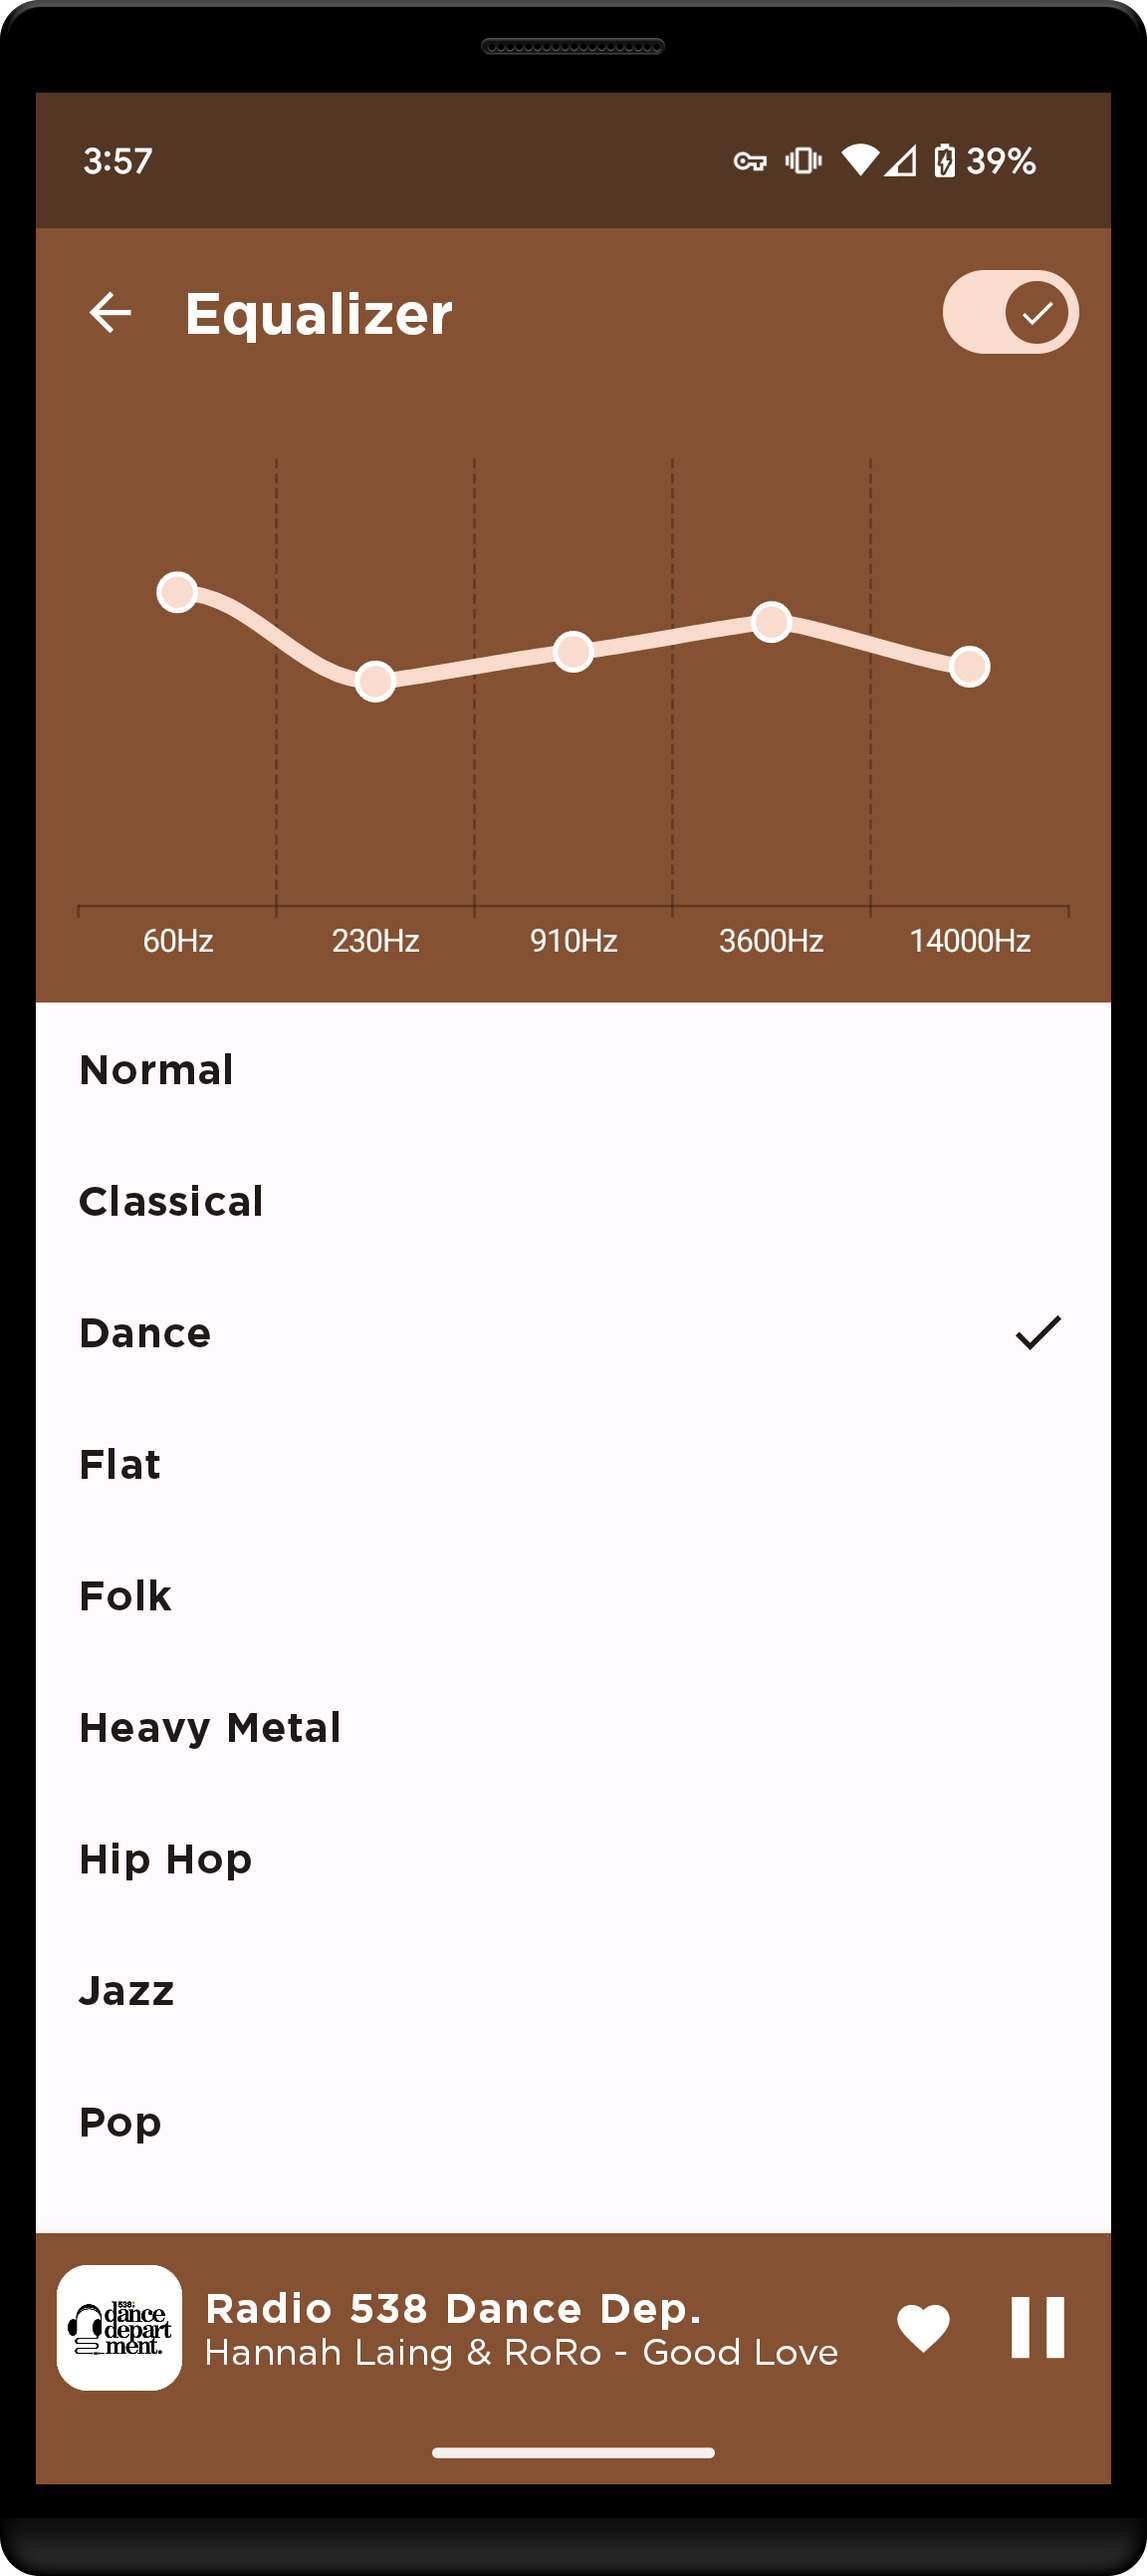
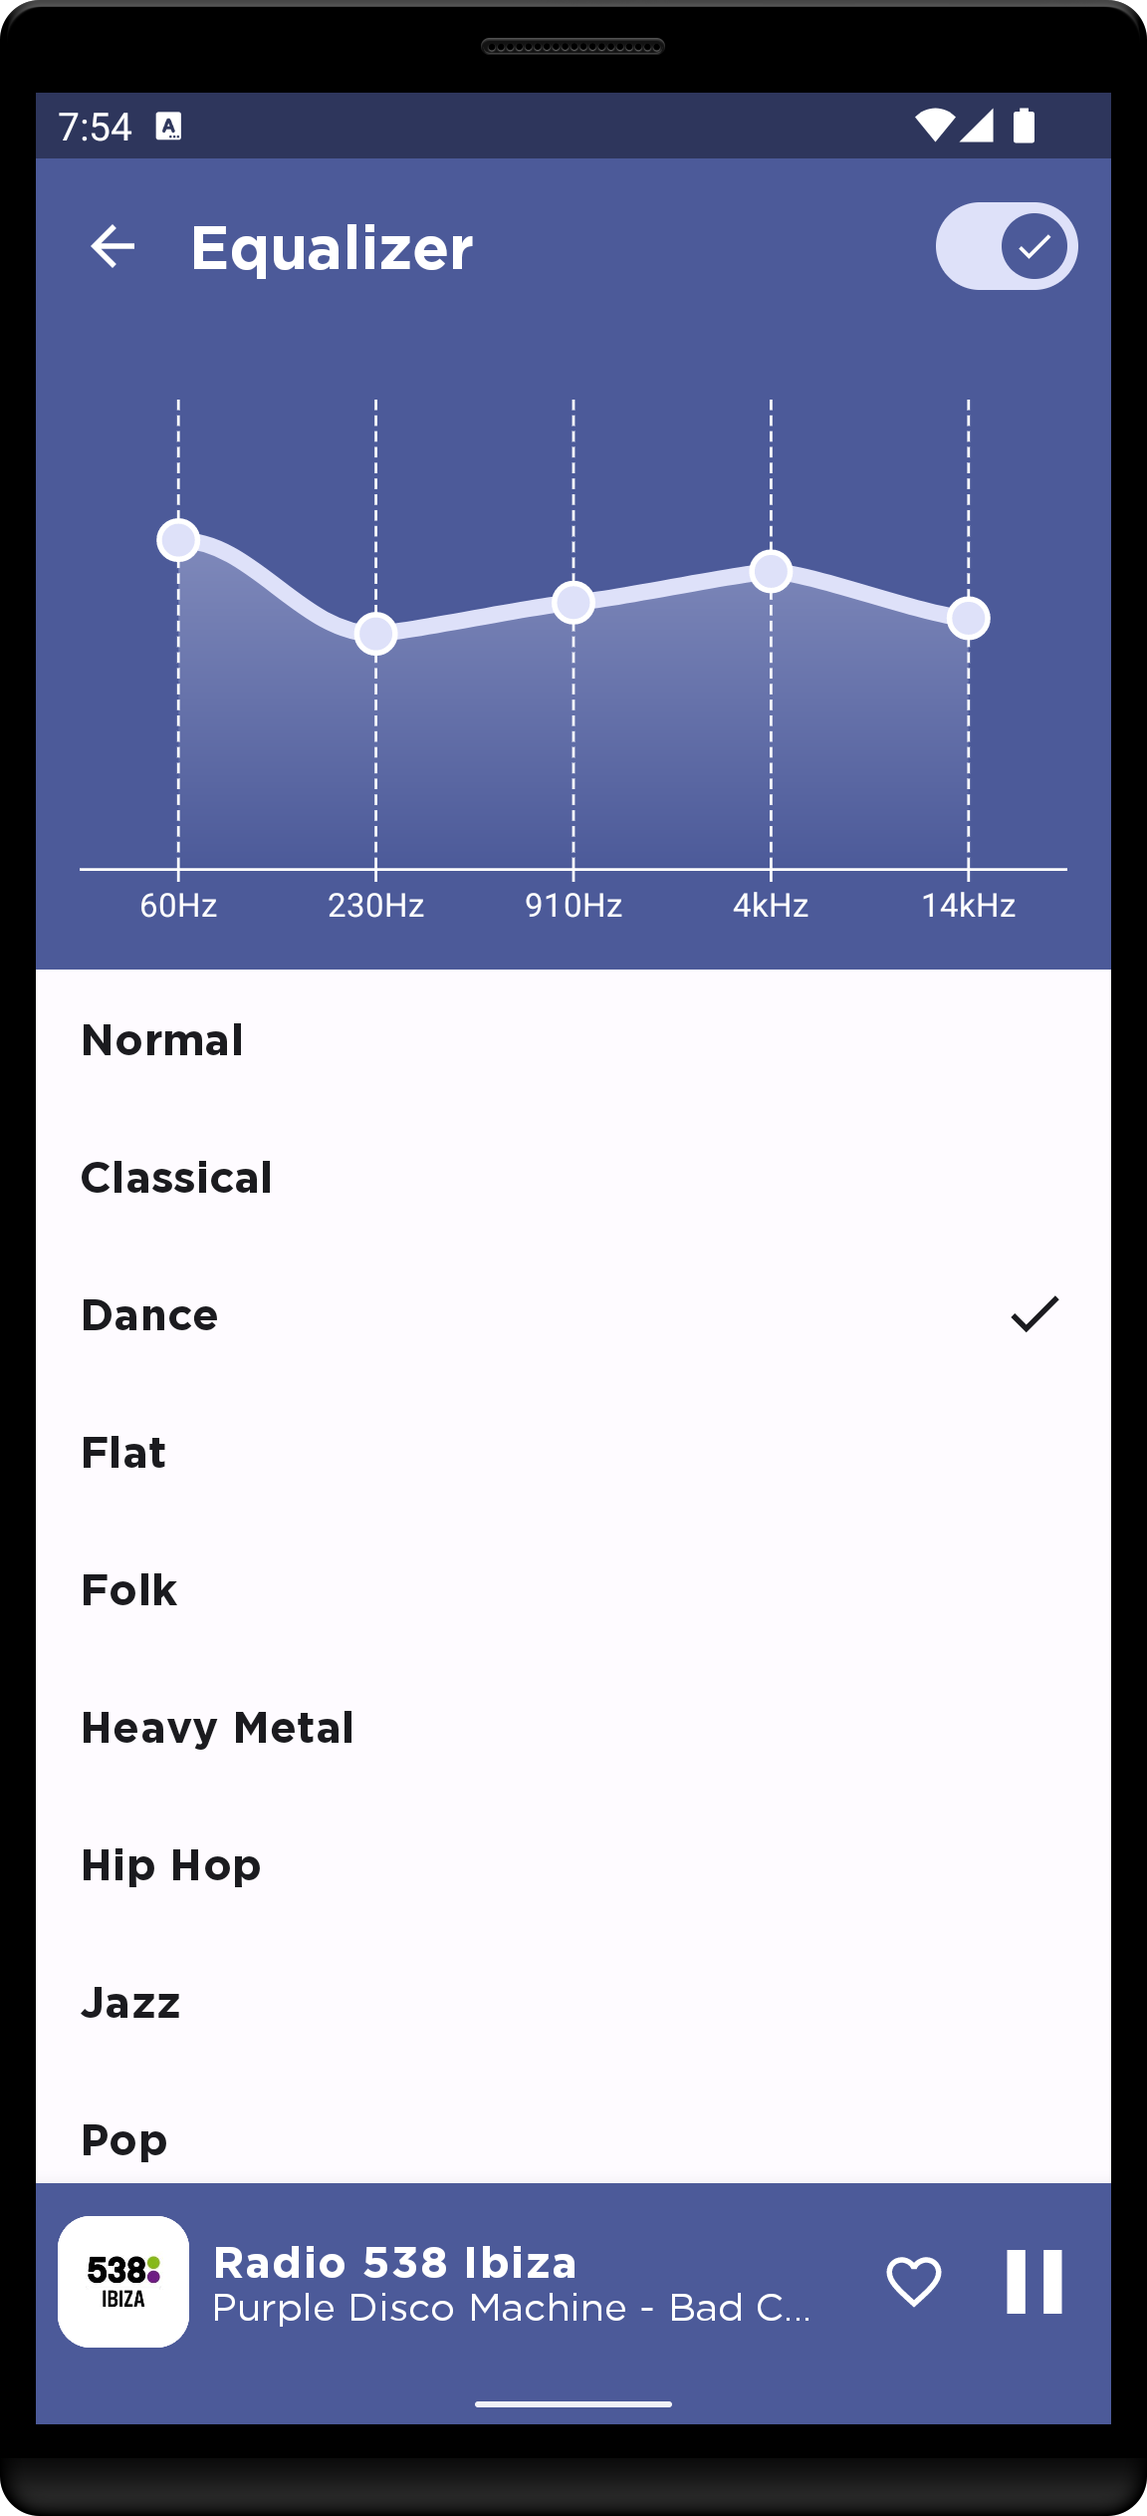
fix more detect issues

diff --git a/app/src/main/java/com/nielsmasdorp/nederadio/ui/equalizer/Equalizer.kt b/app/src/main/java/com/nielsmasdorp/nederadio/ui/equalizer/Equalizer.kt
@@ -5,11 +5,16 @@ import androidx.compose.foundation.layout.*
 import androidx.compose.material3.MaterialTheme
 import androidx.compose.runtime.Composable
 import androidx.compose.ui.Modifier
+import androidx.compose.ui.graphics.Brush.Companion.verticalGradient
 import androidx.compose.ui.graphics.toArgb
 import androidx.compose.ui.unit.dp
 import com.patrykandpatrick.vico.compose.axis.horizontal.bottomAxis
 import com.patrykandpatrick.vico.compose.chart.Chart
 import com.patrykandpatrick.vico.compose.chart.line.lineChart
+import com.patrykandpatrick.vico.compose.component.lineComponent
+import com.patrykandpatrick.vico.compose.component.shape.shader.BrushShader
+import com.patrykandpatrick.vico.compose.style.currentChartStyle
+import com.patrykandpatrick.vico.core.axis.horizontal.HorizontalAxis
 import com.patrykandpatrick.vico.core.chart.line.LineChart
 import com.patrykandpatrick.vico.core.chart.values.AxisValuesOverrider
 import com.patrykandpatrick.vico.core.component.shape.ShapeComponent
@@ -17,6 +22,7 @@ import com.patrykandpatrick.vico.core.component.shape.Shapes
 import com.patrykandpatrick.vico.core.component.text.textComponent
 import com.patrykandpatrick.vico.core.entry.ChartEntryModelProducer
 
+@Suppress("MagicNumber")
 @Composable
 fun Equalizer(
     minBandRange: Float,
@@ -30,6 +36,7 @@ fun Equalizer(
             .padding(16.dp)
     ) {
         Chart(
+            runInitialAnimation = false,
             isZoomEnabled = false,
             chart = lineChart(
                 axisValuesOverrider = AxisValuesOverrider.fixed(
@@ -45,7 +52,15 @@ fun Equalizer(
                             color = MaterialTheme.colorScheme.secondaryContainer.toArgb(),
                             strokeColor = MaterialTheme.colorScheme.onPrimary.toArgb(),
                             strokeWidthDp = 2f
-                        )
+                        ),
+                        lineBackgroundShader = BrushShader(
+                            verticalGradient(
+                                colors = listOf(
+                                    MaterialTheme.colorScheme.secondaryContainer.copy(0.5f),
+                                    MaterialTheme.colorScheme.secondaryContainer.copy(alpha = 0f)
+                                ),
+                            )
+                        ),
                     )
                 )
             ),
@@ -54,11 +69,26 @@ fun Equalizer(
                 label = textComponent {
                     this.color = MaterialTheme.colorScheme.onPrimary.toArgb()
                 },
+                guideline = lineComponent(
+                    color = MaterialTheme.colorScheme.onPrimary,
+                    thickness = currentChartStyle.axis.axisGuidelineWidth,
+                    shape = currentChartStyle.axis.axisGuidelineShape
+                ),
+                tickPosition = HorizontalAxis.TickPosition.Center(),
+                tick = lineComponent(
+                    color = MaterialTheme.colorScheme.onPrimary,
+                    thickness = currentChartStyle.axis.axisTickWidth,
+                    shape = currentChartStyle.axis.axisTickShape
+                ),
+                axis = lineComponent(
+                    color = MaterialTheme.colorScheme.onPrimary,
+                    thickness = currentChartStyle.axis.axisLineWidth,
+                    shape = currentChartStyle.axis.axisLineShape
+                ),
                 valueFormatter = { value, chartValues ->
-                    (
-                        chartValues.chartEntryModel.entries.first()
-                            .getOrNull(value.toInt()) as? EqualizerEntry
-                        )?.hertz.orEmpty()
+                    val entries = chartValues.chartEntryModel.entries.first()
+                    val entry: EqualizerEntry = entries[value.toInt()] as EqualizerEntry
+                    entry.hertz
                 }
             )
         )

diff --git a/app/src/main/java/com/nielsmasdorp/nederadio/ui/equalizer/EqualizerViewModel.kt b/app/src/main/java/com/nielsmasdorp/nederadio/ui/equalizer/EqualizerViewModel.kt
@@ -6,6 +6,7 @@ import com.nielsmasdorp.nederadio.domain.equalizer.EqualizerManager
 import com.nielsmasdorp.nederadio.domain.equalizer.EqualizerState
 import com.patrykandpatrick.vico.core.entry.ChartEntryModelProducer
 import kotlinx.coroutines.flow.*
+import kotlin.math.roundToInt
 
 class EqualizerViewModel(
     private val equalizerManager: EqualizerManager
@@ -19,7 +20,7 @@ class EqualizerViewModel(
                 equalizerProducer.setEntries(
                     state.bands.mapIndexed { index, item ->
                         EqualizerEntry(
-                            hertz = "${item.frequency.div(1000)}Hz",
+                            hertz = formatHertz(frequency = item.frequency.toFloat()),
                             x = index.toFloat(),
                             y = item.level.toFloat()
                         )
@@ -39,5 +40,14 @@ class EqualizerViewModel(
 
     fun setEnabled(enabled: Boolean) {
         equalizerManager.onEnabled(enabled = enabled)
+    }
+
+    @Suppress("MagicNumber")
+    private fun formatHertz(frequency: Float): String {
+        return if (frequency < 1_000_000) {
+            "${frequency.div(1_000).roundToInt()}Hz"
+        } else {
+            "${frequency.div(1_000_000).roundToInt()}kHz"
+        }
     }
 }

diff --git a/domain/src/main/java/com/nielsmasdorp/nederadio/domain/equalizer/EqualizerManager.kt b/domain/src/main/java/com/nielsmasdorp/nederadio/domain/equalizer/EqualizerManager.kt
@@ -28,12 +28,7 @@ interface EqualizerManager {
 
     /**
      * Change the equalizer to a different preset
-     * @param the preset as index from 0 to n
+     * @param preset as index from 0 to n
      */
     fun onPresetChanged(preset: Short)
-
-    /**
-     * Clean up the equalizer when the app is closing
-     */
-    fun teardown()
 }

diff --git a/app/src/main/java/com/nielsmasdorp/nederadio/data/equalizer/AndroidEqualizerManager.kt b/app/src/main/java/com/nielsmasdorp/nederadio/data/equalizer/AndroidEqualizerManager.kt
@@ -55,10 +55,6 @@ class AndroidEqualizerManager(
         }
     }
 
-    override fun teardown() {
-        scope.cancel()
-    }
-
     private fun Equalizer.toState(): EqualizerState {
         val bands = mutableListOf<EqualizerBand>()
         val presets = mutableListOf<String>()

diff --git a/app/src/main/java/com/nielsmasdorp/nederadio/playback/StreamService.kt b/app/src/main/java/com/nielsmasdorp/nederadio/playback/StreamService.kt
@@ -87,7 +87,6 @@ class StreamService :
     }
 
     private fun teardown() {
-        equalizerManager.teardown()
         releaseMediaSession()
         stopSleepTimer()
         serviceScope.cancel()
